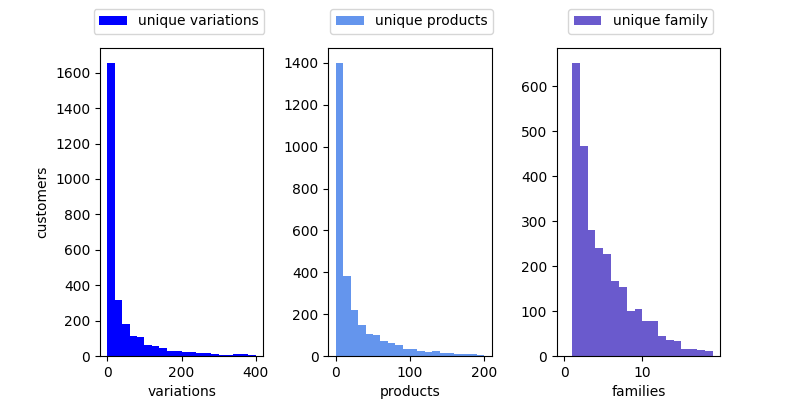
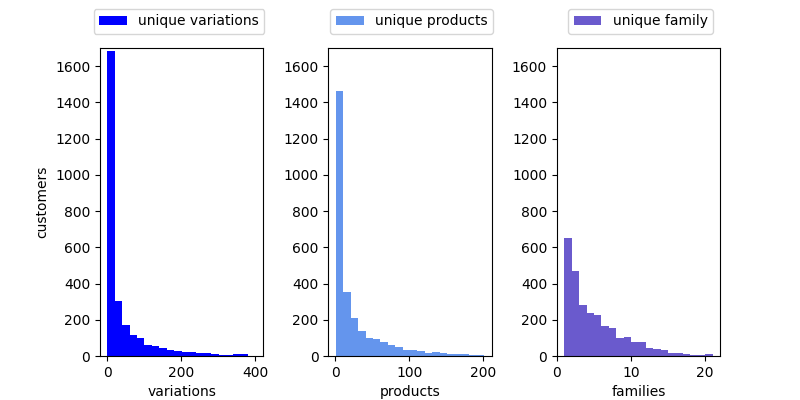
plot ocd

diff --git a/src/Plots/data_analysis.py b/src/Plots/data_analysis.py
@@ -19,19 +19,22 @@ def unique_products_per_customer(data):
     pl.tight_layout()
 
     ax = pl.subplot(gs[0, 0]) # row 0, col 0
-    pl.hist(variation.values(),bins=list(range(0,420,20)), color='blue', label='unique variations')
+    pl.hist(variation.values(),bins=list(range(1,420,20)), color='blue', label='unique variations')
     pl.xlabel('variations')
     pl.ylabel('customers')
+    pl.ylim(top=1700)
     ax.legend(bbox_to_anchor=(1.05, 1.15))
 
     ax = pl.subplot(gs[0, 1]) # row 0, col 1
-    pl.hist(product.values(),bins=list(range(0,210,10)), color='cornflowerblue', label='unique products')
+    pl.hist(product.values(),bins=list(range(1,210,10)), color='cornflowerblue', label='unique products')
     pl.xlabel('products')
+    pl.ylim(top=1700)
     ax.legend(bbox_to_anchor=(1.05, 1.15))
 
     ax = pl.subplot(gs[0, 2]) # row 1, span all columns
-    pl.hist(family.values(),bins=range(0,20,1), color='slateblue', label='unique family')
+    pl.hist(family.values(),bins=list(range(1,22,1)), color='slateblue', label='unique family')
     pl.xlabel('families')
+    pl.ylim(top=1700)
     ax.legend(bbox_to_anchor=(1, 1.15))
 
     plt.savefig('unique.png')
